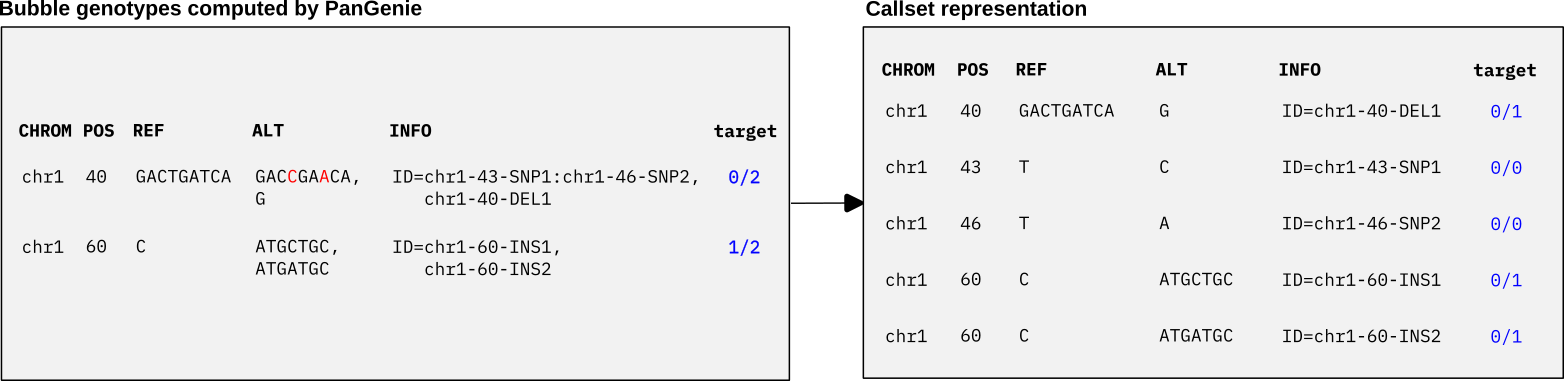
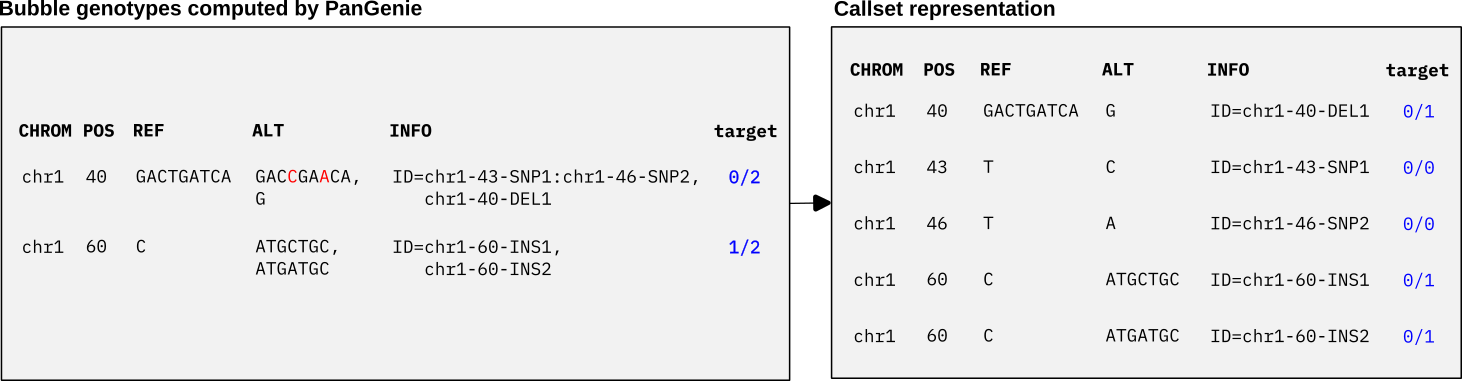
changed size of figures

diff --git a/docs/source/background.rst b/docs/source/background.rst
@@ -7,7 +7,7 @@ Given a pangenome reference constructed from fully assembled haplotypes of a set
 Genotypes are computed based on read k-mer counts and the panel of haplotypes present in the graph.
 
 .. image:: _static/pangenie.png
-    :width: 600
+    :width: 650
 
 In this workshop, we will focus on how to run PanGenie rather than the underlying method. For a description of the method we refer to our publication: https://doi.org/10.1038/s41588-022-01043-w. PanGenie is available on github (https://github.com/eblerjana/pangenie). All information on how to install it is available there.
 
@@ -57,24 +57,24 @@ Representing nested variation
 Pangenome graph construction tools like the Minigraph-Cactus pipeline build pangenomes from haplotype-resolved de novo assemblies. Variation between haplotypes is represented in terms of bubble structures in the graph. Each haplotype is additionally stored as a path through the graph. In the example shown below, the graph represents four haplotypes (shown in pink, orange, green and blue) and two top-level bubble structures.
 
 .. image:: _static/pangenome.png
-    :width: 600
+    :width: 650
 
 In VCF representation, each top-level bubble is encoded as a separate record. Each path through the bubble covered by at least one haplotype is listed as an alternative allele. The reference allele refers to the sequence of the path that the reference genome follows through the graph and the position of the variant is also derived relative to the reference genome. The haplotypes are encoded in terms of phased genotypes in the sample columns of the VCF.
 
 .. image:: _static/vcf-record.png
-    :width: 600
+    :width: 650
 
 We show how to represent the records in VCF format. The first bubble contains two nested SNP variants. We can assign a unique ID to each individual variant allele and encode nested variation in the INFO/ID field. This field has one entry for each alternative allele listed in the ALT column of the VCF. If the alternative allele contains nested variants, the IDs of these nested alleles are listed, separated by a colon. If there are no nested alleles, the ID field just contains a single ID. See the Figure below for an example. The first bubble record consists of two alternative alleles. The first ALT allele corresponds to the path of the orange haplotype and thus traverses the two nested SNP variants. Therefore, its INFO/ID field lists the IDs of these two SNPs, separated by a colon. The second alternative allele refers to the deletion (the path taken by the blue and green haplotypes) and does not contain any further nested alleles. Therefore, the INFO/ID column just consists of a single ID, corresponding to the deletion itself.
 We refer to this annotated VCF as the **bubble VCF** in the following.
 
 .. image:: _static/vcf-multi.png
-    :width: 600
+    :width: 650
 
 Instead of representing each bubble as a record in the VCF, an alternative is to convert the VCF into a bi-allelic representation which lists a separate record for each individual (nested) allele, i.e. one record per unique ID. See below for the bi-allelic representation of the above VCF records. Each individual ID is listed as a separate record with its corresponding REF and ALT sequences. The bubble genotypes are translated into bi-allelic genotypes encoding the presence (1) and absence (0) of each individual variant ID in the haplotypes. We refer to this bi-allelic VCF as the **callset VCF** in the following.
 
 
 .. image:: _static/vcf-bi.png
-    :width: 600
+    :width: 650
 
 
 We can genotype bubbles in the pangenome graph with PanGenie using the annotated, multi-allelic *bubble VCF* as input. After genotyping, we can postprocess the VCF to convert bubble genotypes to genotypes for each individual variant allele represented in the *callset VCF*. We show an example below. With our given *bubble VCF*, PanGenie will compute a genotype for the target sample for each bubble record and output the results as a VCF (left panel of the Figure below). Based on our annotations, we can now easily translate the bubble genotypes into our *callset* representation, by checking absence and presence of each ID in the bubble genotypes (right panel of the Figure below).